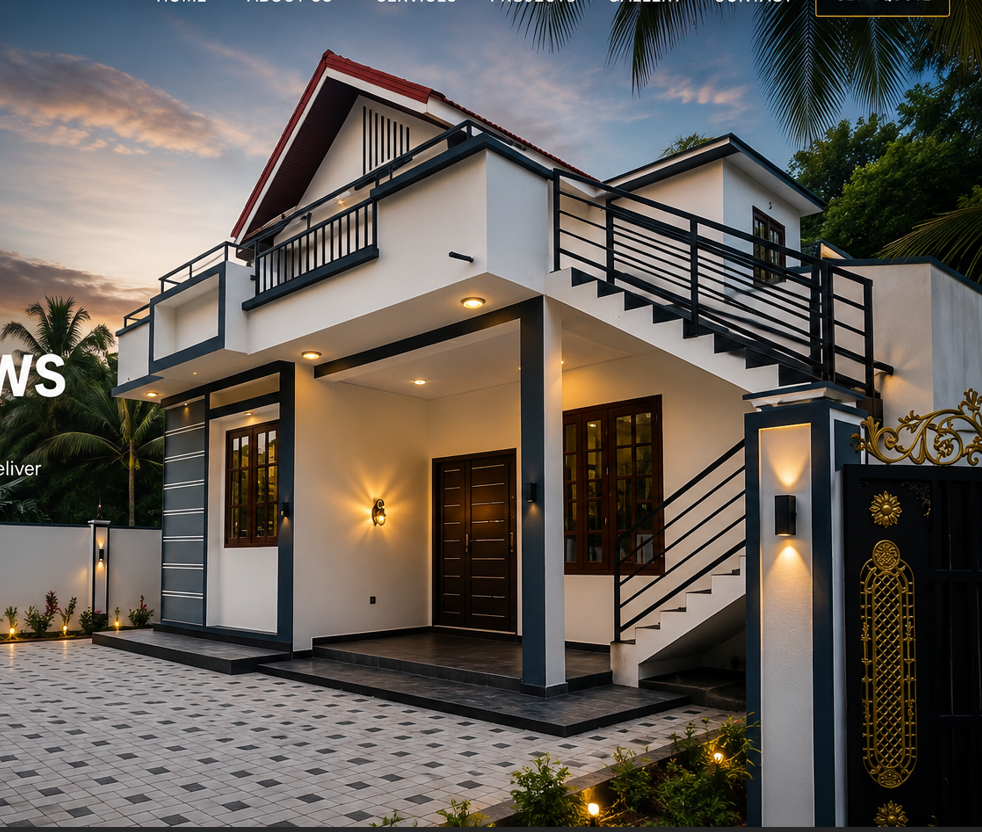
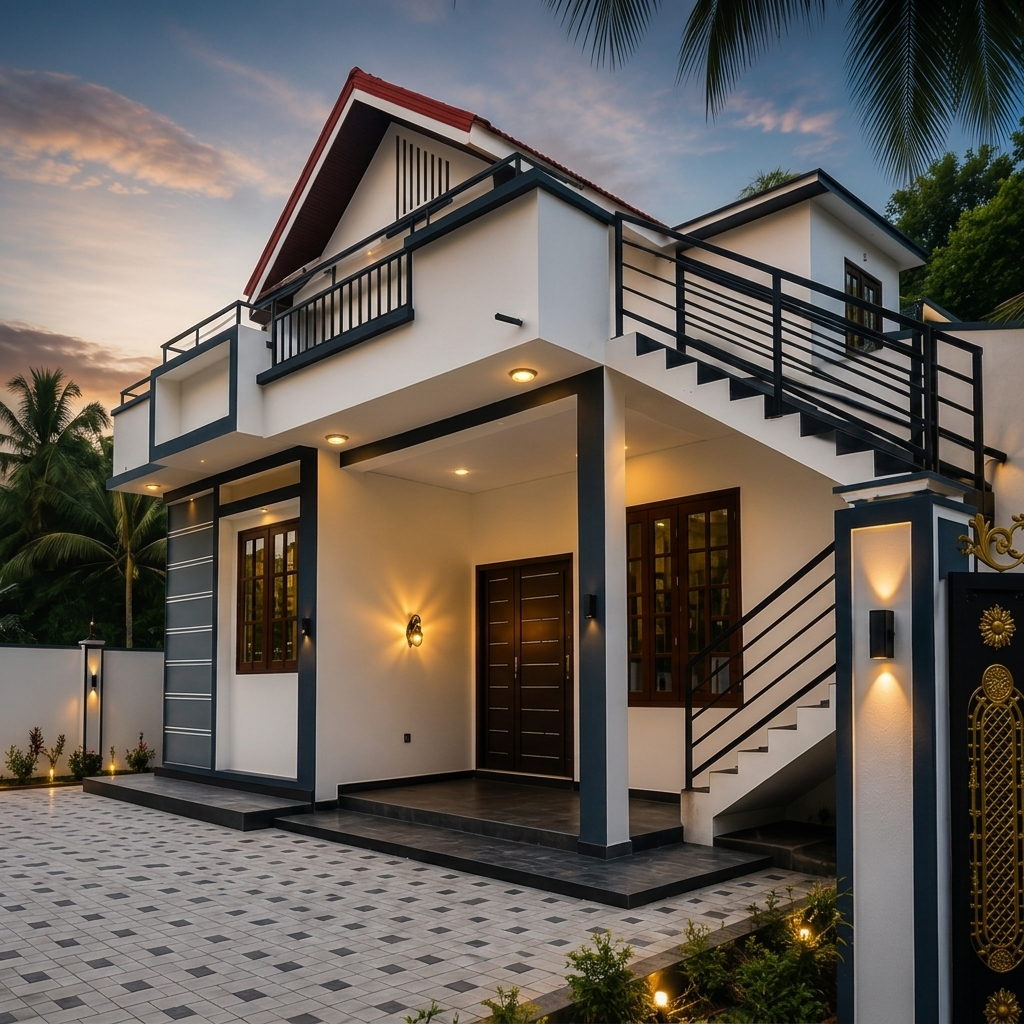
first commit

diff --git a/src/pages/Home.jsx b/src/pages/Home.jsx
@@ -24,6 +24,43 @@ import {
 export default function Home({ onSelectProject, projects, onOpenQuote }) {
   const [activeFilter, setActiveFilter] = useState('ALL');
   const [contactSubmitted, setContactSubmitted] = useState(false);
+  const [typingLength, setTypingLength] = useState(0);
+
+  useEffect(() => {
+    const text1 = "BUILDING STRONGER ";
+    const text2 = "TOMORROWS.";
+    const totalLength = text1.length + text2.length;
+
+    let timeoutId;
+    let intervalId;
+
+    const startTyping = () => {
+      setTypingLength(0);
+      let current = 0;
+      intervalId = setInterval(() => {
+        current += 1;
+        setTypingLength(current);
+        if (current >= totalLength) {
+          clearInterval(intervalId);
+          timeoutId = setTimeout(() => {
+            startTyping();
+          }, 3000);
+        }
+      }, 200);
+    };
+
+    startTyping();
+
+    return () => {
+      clearInterval(intervalId);
+      clearTimeout(timeoutId);
+    };
+  }, []);
+
+  const text1 = "BUILDING STRONGER ";
+  const text2 = "TOMORROWS.";
+  const showText1 = text1.slice(0, typingLength);
+  const showText2 = typingLength > text1.length ? text2.slice(0, typingLength - text1.length) : "";
   const [contactData, setContactData] = useState({
     name: '',
     phone: '',
@@ -97,8 +134,10 @@ export default function Home({ onSelectProject, projects, onOpenQuote }) {
               <span className="w-10 h-[1.5px] bg-gold" />
               Trusted Construction Partner
             </span>
-            <h1 className="text-4xl sm:text-6xl lg:text-7xl font-extrabold uppercase leading-tight font-display tracking-tight text-white mb-6">
-              Building Stronger <span className="text-gold">Tomorrows.</span>
+            <h1 className="text-4xl sm:text-6xl lg:text-7xl font-extrabold uppercase leading-tight font-display tracking-tight text-white mb-6 min-h-[90px] sm:min-h-[140px] lg:min-h-[180px]">
+              {showText1}
+              <span className="text-gold">{showText2}</span>
+              <span className="animate-pulse text-gold font-normal">|</span>
             </h1>
             <p className="text-base sm:text-lg lg:text-xl text-gray-300 font-light leading-relaxed max-w-2xl mb-8">
               From concept to completion, Iron Core Builders delivers dependable building, road, and heavy-machinery solutions with precision, integrity, and exceptional care.
@@ -273,68 +312,44 @@ export default function Home({ onSelectProject, projects, onOpenQuote }) {
 
           {/* Core Services Grid */}
           <div className="grid grid-cols-1 sm:grid-cols-2 lg:grid-cols-4 gap-6 reveal visible">
-            <div className="glass-card p-8 flex flex-col items-start text-left min-h-[300px]">
+            <div id="service-building" className="glass-card p-8 flex flex-col items-start text-left min-h-[300px]">
               <div className="w-12 h-12 rounded-sm bg-gold/10 flex items-center justify-center text-gold mb-6 border border-gold/25">
                 <Building2 size={24} />
               </div>
               <h3 className="text-xl font-bold uppercase tracking-wide text-white mb-3">Building</h3>
-              <p className="text-sm text-gray-400 font-light leading-relaxed mb-6">
+              <p className="text-sm text-gray-400 font-light leading-relaxed">
                 Residential, commercial and industrial building solutions designed with precision, style, and care.
               </p>
-              <button
-                onClick={onOpenQuote}
-                className="mt-auto flex items-center gap-1 text-xs text-gold hover:text-white transition-colors uppercase font-bold tracking-wider"
-              >
-                Learn More <ChevronRight size={14} />
-              </button>
             </div>
 
-            <div className="glass-card p-8 flex flex-col items-start text-left min-h-[300px]">
+            <div id="service-road-works" className="glass-card p-8 flex flex-col items-start text-left min-h-[300px]">
               <div className="w-12 h-12 rounded-sm bg-gold/10 flex items-center justify-center text-gold mb-6 border border-gold/25">
                 <Route size={24} />
               </div>
               <h3 className="text-xl font-bold uppercase tracking-wide text-white mb-3">Road Works</h3>
-              <p className="text-sm text-gray-400 font-light leading-relaxed mb-6">
+              <p className="text-sm text-gray-400 font-light leading-relaxed">
                 Construction and maintenance of high-quality highways, primary roads, and supporting drainage infrastructure.
               </p>
-              <button
-                onClick={onOpenQuote}
-                className="mt-auto flex items-center gap-1 text-xs text-gold hover:text-white transition-colors uppercase font-bold tracking-wider"
-              >
-                Learn More <ChevronRight size={14} />
-              </button>
             </div>
 
-            <div className="glass-card p-8 flex flex-col items-start text-left min-h-[300px]">
+            <div id="service-heavy-machinery" className="glass-card p-8 flex flex-col items-start text-left min-h-[300px]">
               <div className="w-12 h-12 rounded-sm bg-gold/10 flex items-center justify-center text-gold mb-6 border border-gold/25">
                 <HardHat size={24} />
               </div>
               <h3 className="text-xl font-bold uppercase tracking-wide text-white mb-3">Heavy Machinery</h3>
-              <p className="text-sm text-gray-400 font-light leading-relaxed mb-6">
+              <p className="text-sm text-gray-400 font-light leading-relaxed">
                 Reliable excavation and heavy site support using standard operated JCB loaders and grading mechanisms.
               </p>
-              <button
-                onClick={onOpenQuote}
-                className="mt-auto flex items-center gap-1 text-xs text-gold hover:text-white transition-colors uppercase font-bold tracking-wider"
-              >
-                Learn More <ChevronRight size={14} />
-              </button>
             </div>
 
-            <div className="glass-card p-8 flex flex-col items-start text-left min-h-[300px]">
+            <div id="service-renovation" className="glass-card p-8 flex flex-col items-start text-left min-h-[300px]">
               <div className="w-12 h-12 rounded-sm bg-gold/10 flex items-center justify-center text-gold mb-6 border border-gold/25">
                 <Wrench size={24} />
               </div>
               <h3 className="text-xl font-bold uppercase tracking-wide text-white mb-3">Renovation</h3>
-              <p className="text-sm text-gray-400 font-light leading-relaxed mb-6">
+              <p className="text-sm text-gray-400 font-light leading-relaxed">
                 Professional renovation and architectural remodeling services to transform and enhance your existing structures.
               </p>
-              <button
-                onClick={onOpenQuote}
-                className="mt-auto flex items-center gap-1 text-xs text-gold hover:text-white transition-colors uppercase font-bold tracking-wider"
-              >
-                Learn More <ChevronRight size={14} />
-              </button>
             </div>
           </div>
         </div>
@@ -743,8 +758,8 @@ export default function Home({ onSelectProject, projects, onOpenQuote }) {
       <section id="contact" className="py-24 relative overflow-hidden bg-navy">
         {/* Background & Overlay */}
         <div className="absolute inset-0 z-0">
-          <div className="absolute inset-0 bg-cover bg-center filter brightness-[0.45] saturate-[1.1] scale-102 transition-all duration-700" style={{ backgroundImage: "url('/images/contact-road-premium.jpg')" }} />
-          <div className="absolute inset-0 bg-gradient-to-r from-ink/90 via-ink/80 to-ink/65 z-10" />
+          <div className="absolute inset-0 bg-cover bg-center bg-fixed" style={{ backgroundImage: "url('/images/contact-road-premium.jpg')" }} />
+          <div className="absolute inset-0 bg-gradient-to-r from-ink/95 via-ink/90 to-ink/80 z-10" />
         </div>
 
         <div className="relative z-20 max-w-7xl mx-auto px-6">
@@ -786,7 +801,7 @@ export default function Home({ onSelectProject, projects, onOpenQuote }) {
                 </div>
               </a>
               <a
-                href="https://maps.google.com/?q=Nagarkovil+East,Nagarkovil,Sri+Lanka"
+                href="https://maps.google.com/?q=9.6879,80.3285"
                 target="_blank"
                 rel="noopener noreferrer"
                 className="flex items-center gap-4 p-4 bg-white/5 border border-white/10 hover:border-gold/50 transition-colors rounded-sm group"
@@ -802,7 +817,7 @@ export default function Home({ onSelectProject, projects, onOpenQuote }) {
             {/* Column 2: Middle Map */}
             <div className="lg:col-span-2 w-full reveal visible">
               <a
-                href="https://maps.google.com/?q=Nagarkovil+East,Nagarkovil,Sri+Lanka"
+                href="https://maps.google.com/?q=9.6879,80.3285"
                 target="_blank"
                 rel="noopener noreferrer"
                 className="block border border-white/15 overflow-hidden group relative h-[340px] w-full rounded-sm"
@@ -810,7 +825,7 @@ export default function Home({ onSelectProject, projects, onOpenQuote }) {
               >
                 <iframe
                   title="Iron Core Builders location preview"
-                  src="https://www.google.com/maps?q=Nagarkovil%20East%20Nagarkovil%20Sri%20Lanka&output=embed"
+                  src="https://www.google.com/maps?q=9.6879,80.3285&output=embed"
                   className="w-full h-full border-0 pointer-events-none filter grayscale-[0.8] invert-[0.9] contrast-[0.85] group-hover:grayscale-0 group-hover:invert-0 group-hover:contrast-100 transition-all duration-500"
                   loading="lazy"
                 />

diff --git a/src/components/Navbar.jsx b/src/components/Navbar.jsx
@@ -4,6 +4,7 @@ import { Menu, X, ChevronDown, Phone } from 'lucide-react';
 export default function Navbar({ currentView, setView, activeSection, onOpenQuote }) {
   const [isOpen, setIsOpen] = useState(false);
   const [isScrolled, setIsScrolled] = useState(false);
+  const [isMobileServicesOpen, setIsMobileServicesOpen] = useState(false);
 
   useEffect(() => {
     const handleScroll = () => {
@@ -50,6 +51,32 @@ export default function Navbar({ currentView, setView, activeSection, onOpenQuot
     }
   };
 
+  const handleServiceClick = (targetId) => {
+    setIsOpen(false);
+    if (currentView !== 'home') {
+      setView('home');
+      setTimeout(() => {
+        const el = document.getElementById(targetId);
+        if (el) {
+          el.scrollIntoView({ behavior: 'smooth', block: 'center' });
+          el.classList.add('active-service-card');
+          setTimeout(() => {
+            el.classList.remove('active-service-card');
+          }, 3000);
+        }
+      }, 150);
+    } else {
+      const el = document.getElementById(targetId);
+      if (el) {
+        el.scrollIntoView({ behavior: 'smooth', block: 'center' });
+        el.classList.add('active-service-card');
+        setTimeout(() => {
+          el.classList.remove('active-service-card');
+        }, 3000);
+      }
+    }
+  };
+
   return (
     <header
       className={`fixed top-0 left-0 right-0 z-50 transition-all duration-300 border-t-4 border-gold ${
@@ -78,6 +105,41 @@ export default function Navbar({ currentView, setView, activeSection, onOpenQuot
               link.isSection
                 ? currentView === 'home' && activeSection === link.target
                 : currentView === link.target;
+
+            if (link.name === 'Services') {
+              return (
+                <div key={link.name} className="relative group py-2">
+                  <button
+                    onClick={() => handleNavClick(link)}
+                    className={`text-sm font-semibold tracking-wider uppercase nav-link-underline hover:text-gold transition-colors duration-300 focus:outline-none flex items-center gap-1.5 ${
+                      isLinkActive ? 'text-gold active' : 'text-gray-300'
+                    }`}
+                  >
+                    <span>{link.name}</span>
+                    <ChevronDown size={14} className="group-hover:rotate-180 transition-transform duration-300 text-gray-400 group-hover:text-gold" />
+                  </button>
+                  {/* Dropdown Menu */}
+                  <div className="absolute top-full left-1/2 -translate-x-1/2 mt-2 w-48 bg-ink/95 border border-white/10 border-t-gold rounded-sm shadow-xl opacity-0 invisible group-hover:opacity-100 group-hover:visible transition-all duration-300 transform translate-y-2 group-hover:translate-y-0 z-50 backdrop-blur-md">
+                    <div className="py-2 flex flex-col">
+                      {[
+                        { name: 'Building', target: 'service-building' },
+                        { name: 'Road Works', target: 'service-road-works' },
+                        { name: 'Heavy Machinery', target: 'service-heavy-machinery' },
+                        { name: 'Renovation', target: 'service-renovation' }
+                      ].map((service) => (
+                        <button
+                          key={service.name}
+                          onClick={() => handleServiceClick(service.target)}
+                          className="px-4 py-2.5 text-left text-xs font-semibold tracking-wider text-gray-300 hover:text-gold hover:bg-white/5 transition-all duration-300 uppercase border-b border-white/5 last:border-0"
+                        >
+                          {service.name}
+                        </button>
+                      ))}
+                    </div>
+                  </div>
+                </div>
+              );
+            }
 
             return (
               <button
@@ -140,6 +202,54 @@ export default function Navbar({ currentView, setView, activeSection, onOpenQuot
               link.isSection
                 ? currentView === 'home' && activeSection === link.target
                 : currentView === link.target;
+
+            if (link.name === 'Services') {
+              return (
+                <div key={link.name} className="flex flex-col border-b border-white/5">
+                  <button
+                    onClick={() => setIsMobileServicesOpen(!isMobileServicesOpen)}
+                    className={`text-left text-base font-semibold tracking-widest uppercase py-2.5 hover:text-gold transition-colors focus:outline-none flex items-center justify-between ${
+                      isLinkActive ? 'text-gold' : 'text-gray-300'
+                    }`}
+                  >
+                    <span>{link.name}</span>
+                    <ChevronDown size={18} className={`transition-transform duration-300 text-gray-400 ${isMobileServicesOpen ? 'rotate-180 text-gold' : ''}`} />
+                  </button>
+                  <div
+                    className={`transition-all duration-300 overflow-hidden flex flex-col pl-4 bg-white/2 ${
+                      isMobileServicesOpen ? 'max-h-60 opacity-100 py-1' : 'max-h-0 opacity-0 py-0'
+                    }`}
+                  >
+                    <button
+                      onClick={() => {
+                        setIsOpen(false);
+                        handleNavClick(link);
+                      }}
+                      className="text-left text-xs font-bold tracking-widest uppercase py-2 text-gray-400 hover:text-gold focus:outline-none"
+                    >
+                      All Services
+                    </button>
+                    {[
+                      { name: 'Building', target: 'service-building' },
+                      { name: 'Road Works', target: 'service-road-works' },
+                      { name: 'Heavy Machinery', target: 'service-heavy-machinery' },
+                      { name: 'Renovation', target: 'service-renovation' }
+                    ].map((service) => (
+                      <button
+                        key={service.name}
+                        onClick={() => {
+                          setIsOpen(false);
+                          handleServiceClick(service.target);
+                        }}
+                        className="text-left text-xs font-semibold tracking-widest uppercase py-2 text-gray-300 hover:text-gold focus:outline-none"
+                      >
+                        {service.name}
+                      </button>
+                    ))}
+                  </div>
+                </div>
+              );
+            }
 
             return (
               <button

diff --git a/src/styles.css b/src/styles.css
@@ -223,3 +223,12 @@ select option {
   background-color: #0a1928 !important;
   color: #ffffff !important;
 }
+
+/* Active Service Card Highlight Glow */
+.glass-card.active-service-card {
+  border-color: var(--gold) !important;
+  background: linear-gradient(135deg, rgba(230, 173, 25, 0.08) 0%, rgba(230, 173, 25, 0.02) 100%) !important;
+  box-shadow: 0 12px 40px rgba(230, 173, 25, 0.25) !important;
+  transform: translateY(-8px) scale(1.03) !important;
+}
+
